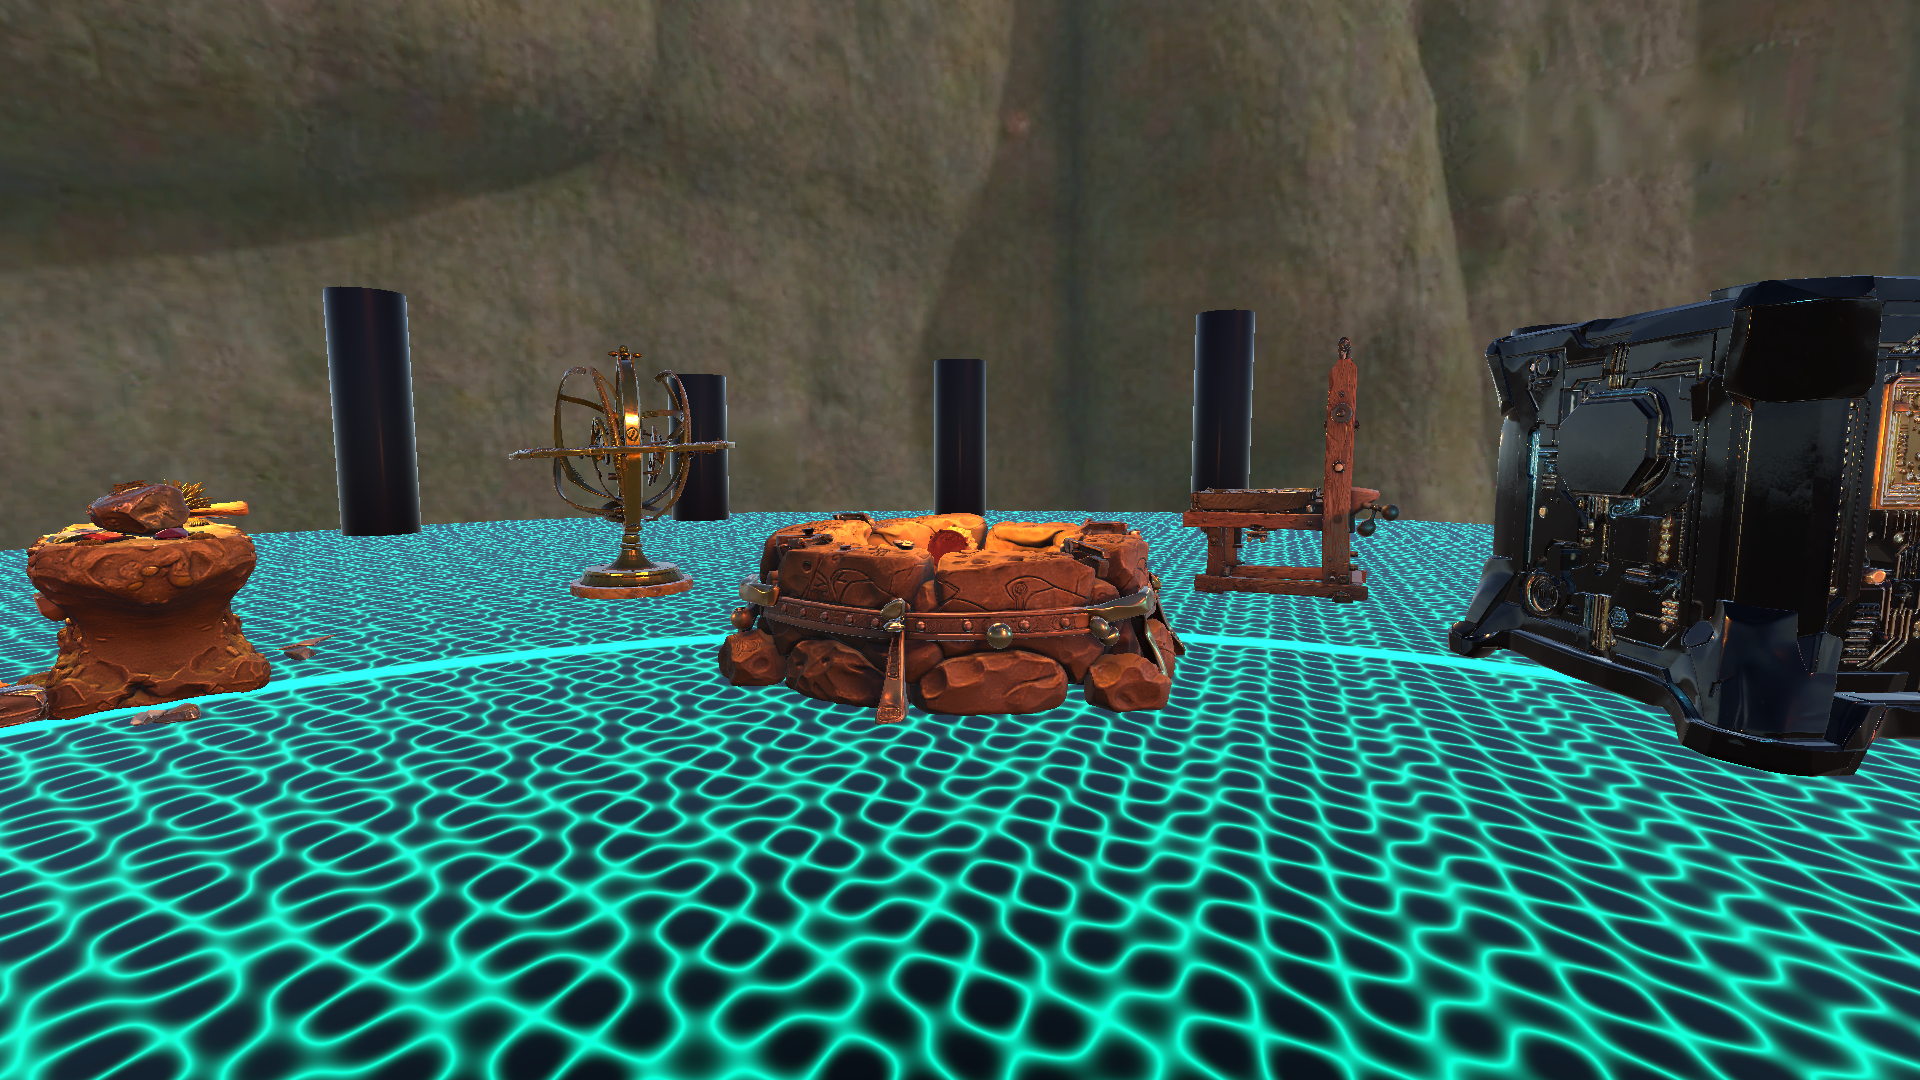
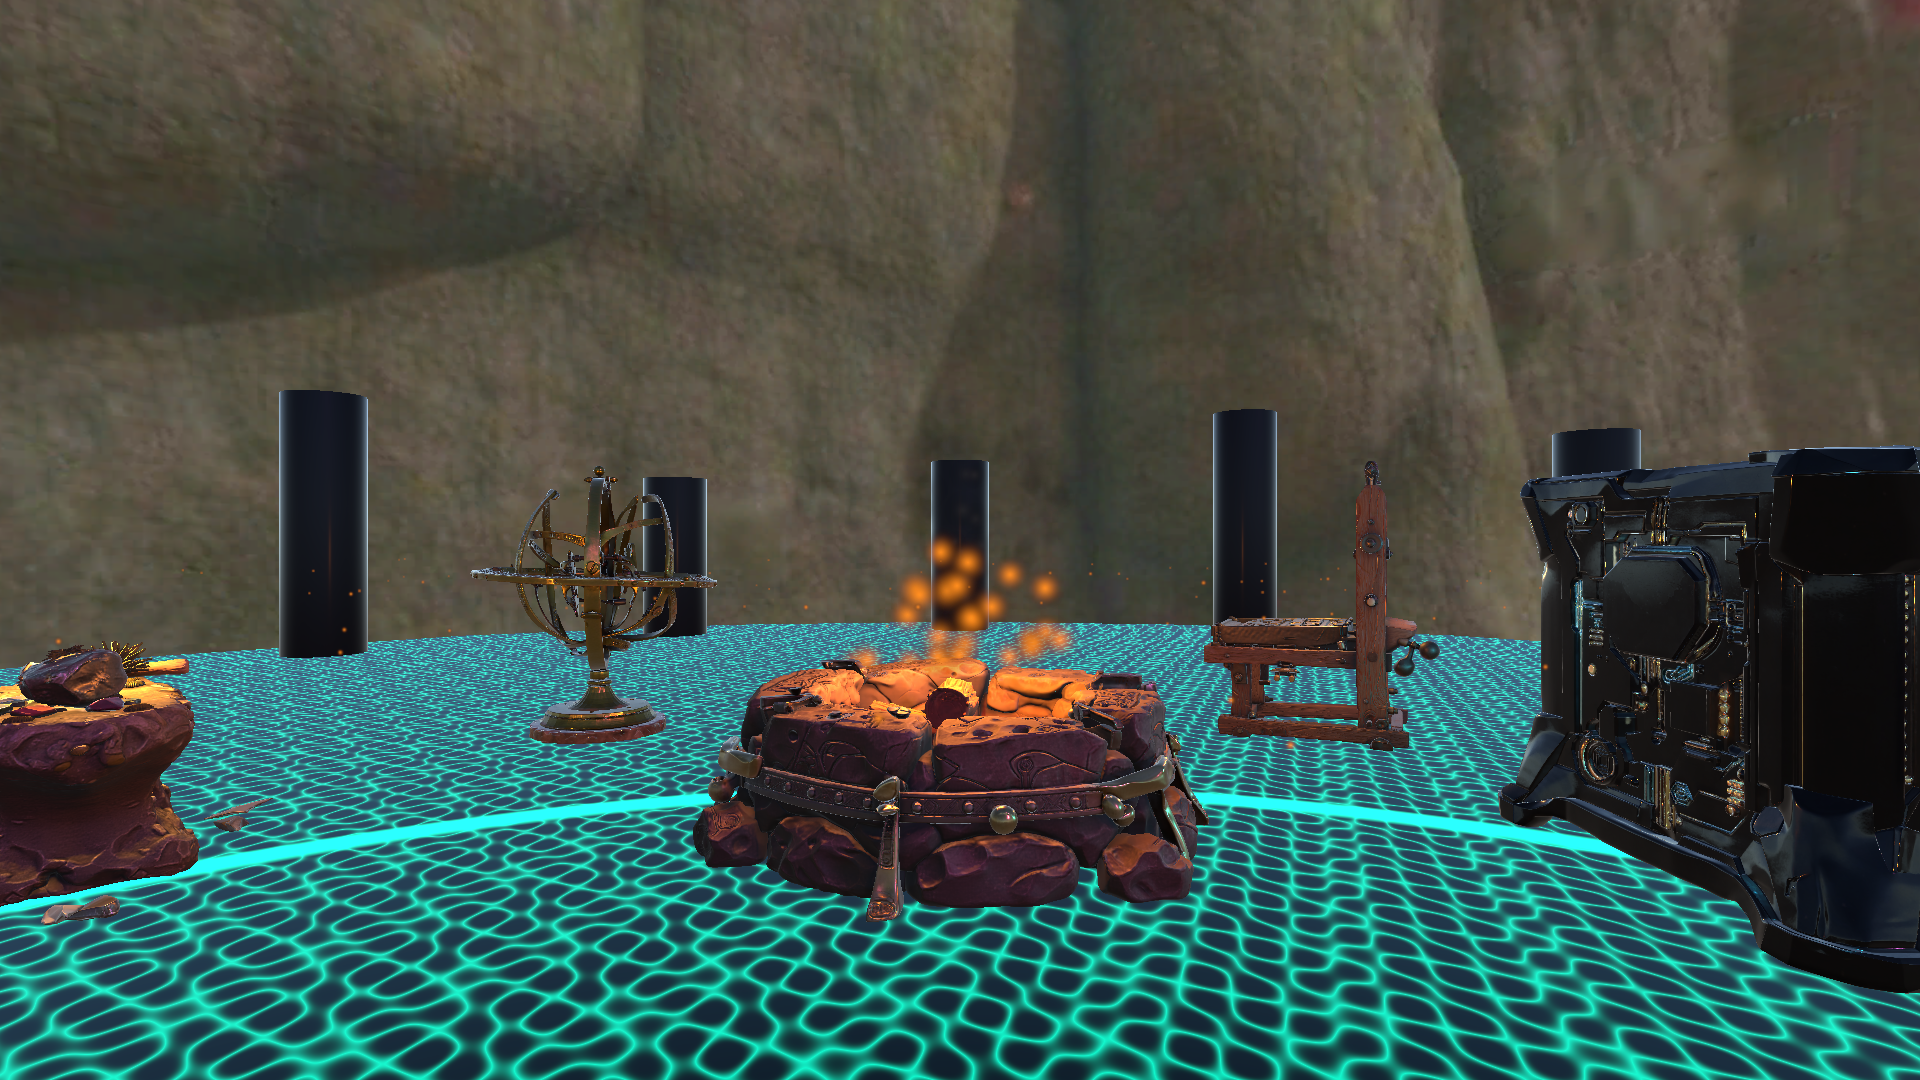
fix(vfx): Add URP particle materials to eliminate magenta flame and spark particles in World 2

diff --git a/Assets/Scripts/Editor/CivilizationWorldArchitect.cs b/Assets/Scripts/Editor/CivilizationWorldArchitect.cs
@@ -60,6 +60,8 @@ namespace Xenoasis.EditorTools
             Material glowCyan = AssetDatabase.LoadAssetAtPath<Material>("Assets/Materials/EmissiveCyan.mat");
             Material glowGold = AssetDatabase.LoadAssetAtPath<Material>("Assets/Materials/EmissiveGold.mat");
             Material stardustMat = AssetDatabase.LoadAssetAtPath<Material>("Assets/Materials/Particle_Stardust.mat");
+            Material particleGlowMat = AssetDatabase.LoadAssetAtPath<Material>("Assets/Materials/Particle_GlowingAdditive.mat") ?? stardustMat;
+            Material particleSmokeMat = AssetDatabase.LoadAssetAtPath<Material>("Assets/Materials/Particle_SmokeAlpha.mat") ?? stardustMat;
             Material darkHullMat = AssetDatabase.LoadAssetAtPath<Material>("Assets/Materials/Cockpit_HullDark.mat");
 
             // Audio clips
@@ -235,16 +237,18 @@ namespace Xenoasis.EditorTools
             // =========================================================================
             // 4. PARTICLE SYSTEMS (Embers, Smoke, Hearth Flames, Quantum Sparks)
             // =========================================================================
-            ParticleSystem embersPs = CreateFloatingEmbers(vfxRoot.transform, stardustMat);
-            ParticleSystem smokePs = CreateForgeSmoke(vfxRoot.transform, new Vector3(0f, 1.8f, 5.5f));
-            ParticleSystem hearthFlamesPs = CreateHearthFlames(vfxRoot.transform, new Vector3(0f, 0.8f, 5.5f));
-            ParticleSystem siliconSparksPs = CreateQuantumSparks(vfxRoot.transform, new Vector3(7.2f, 1.6f, 4.5f));
+            ParticleSystem embersPs = CreateFloatingEmbers(vfxRoot.transform, particleGlowMat);
+            ParticleSystem smokePs = CreateForgeSmoke(vfxRoot.transform, new Vector3(0f, 1.8f, 5.5f), particleSmokeMat);
+            ParticleSystem hearthFlamesPs = CreateHearthFlames(vfxRoot.transform, new Vector3(0f, 0.8f, 5.5f), particleGlowMat);
+            ParticleSystem siliconSparksPs = CreateQuantumSparks(vfxRoot.transform, new Vector3(7.2f, 1.6f, 4.5f), particleGlowMat);
 
             // Return Portal Swirling Particles
             GameObject portalPsGo = new GameObject("VFX_ReturnPortal_Embers");
             portalPsGo.transform.SetParent(vfxRoot.transform, false);
             portalPsGo.transform.localPosition = new Vector3(0f, 2.45f, -4.8f);
             var portalPs = portalPsGo.AddComponent<ParticleSystem>();
+            var portalRend = portalPsGo.GetComponent<ParticleSystemRenderer>();
+            if (portalRend != null) portalRend.sharedMaterial = particleGlowMat;
             var portalMain = portalPs.main;
             portalMain.startLifetime = 1.8f;
             portalMain.startSpeed = 0.6f;
@@ -527,13 +531,16 @@ namespace Xenoasis.EditorTools
             return ps;
         }
 
-        private static ParticleSystem CreateForgeSmoke(Transform parent, Vector3 pos)
+        private static ParticleSystem CreateForgeSmoke(Transform parent, Vector3 pos, Material mat)
         {
             GameObject psGo = new GameObject("VFX_ForgeSmoke");
             psGo.transform.SetParent(parent, false);
             psGo.transform.position = pos;
 
             var ps = psGo.AddComponent<ParticleSystem>();
+            var rend = psGo.GetComponent<ParticleSystemRenderer>();
+            if (mat != null && rend != null) rend.sharedMaterial = mat;
+
             var main = ps.main;
             main.startLifetime = 4.0f;
             main.startSpeed = 1.2f;
@@ -552,13 +559,16 @@ namespace Xenoasis.EditorTools
             return ps;
         }
 
-        private static ParticleSystem CreateHearthFlames(Transform parent, Vector3 pos)
+        private static ParticleSystem CreateHearthFlames(Transform parent, Vector3 pos, Material mat)
         {
             GameObject psGo = new GameObject("VFX_HearthFlames");
             psGo.transform.SetParent(parent, false);
             psGo.transform.position = pos;
 
             var ps = psGo.AddComponent<ParticleSystem>();
+            var rend = psGo.GetComponent<ParticleSystemRenderer>();
+            if (mat != null && rend != null) rend.sharedMaterial = mat;
+
             var main = ps.main;
             main.startLifetime = 0.85f;
             main.startSpeed = 1.8f;
@@ -577,13 +587,16 @@ namespace Xenoasis.EditorTools
             return ps;
         }
 
-        private static ParticleSystem CreateQuantumSparks(Transform parent, Vector3 pos)
+        private static ParticleSystem CreateQuantumSparks(Transform parent, Vector3 pos, Material mat)
         {
             GameObject psGo = new GameObject("VFX_QuantumSiliconSparks");
             psGo.transform.SetParent(parent, false);
             psGo.transform.position = pos;
 
             var ps = psGo.AddComponent<ParticleSystem>();
+            var rend = psGo.GetComponent<ParticleSystemRenderer>();
+            if (mat != null && rend != null) rend.sharedMaterial = mat;
+
             var main = ps.main;
             main.startLifetime = 1.2f;
             main.startSpeed = 0.9f;
